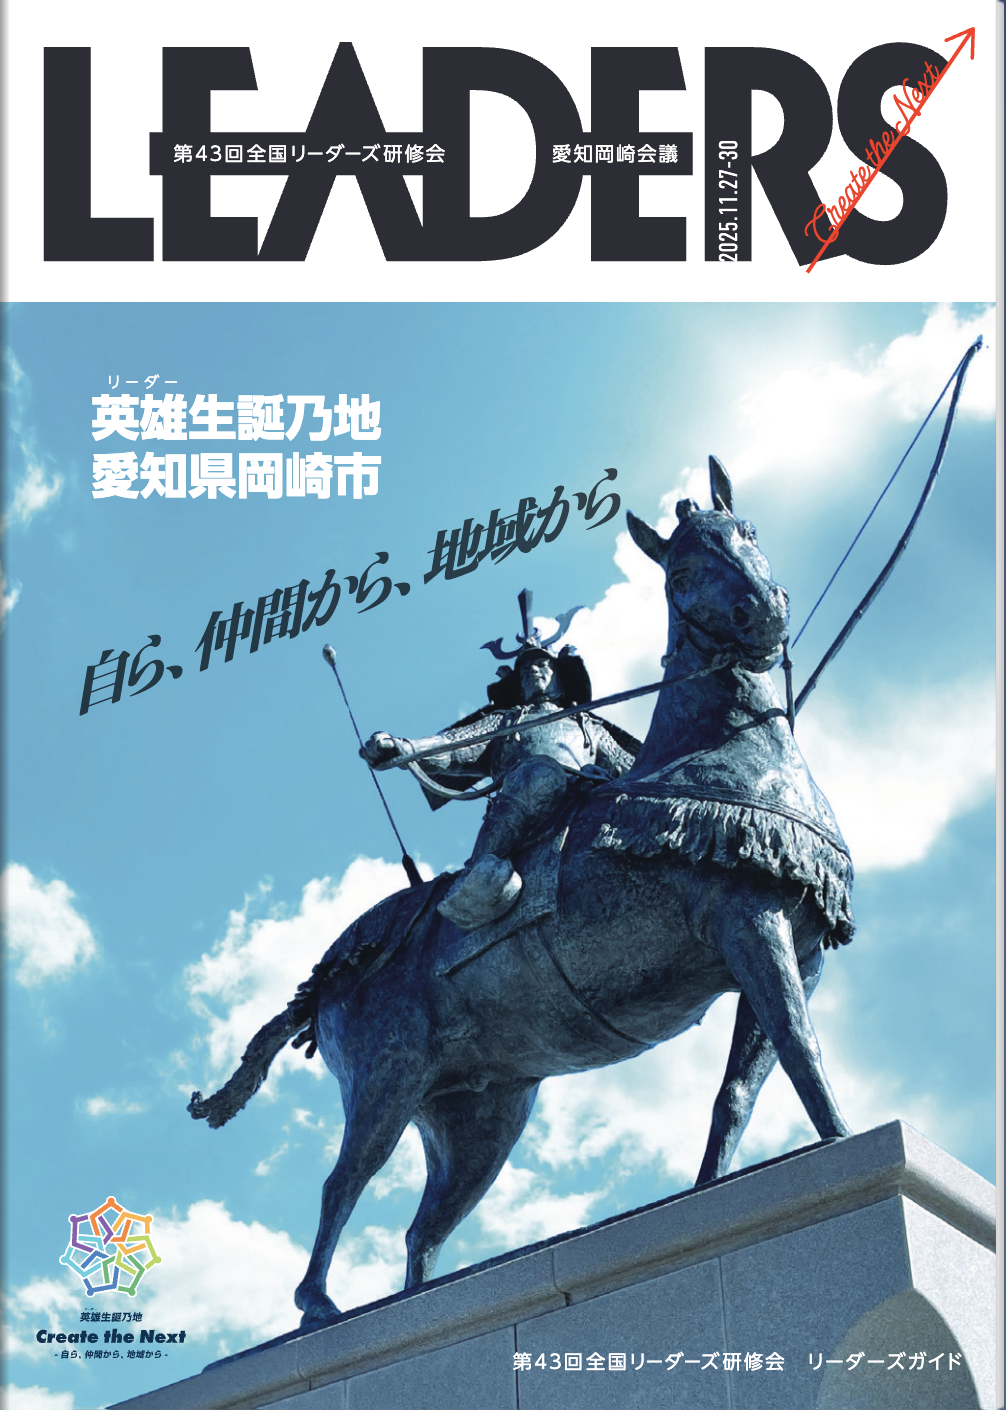
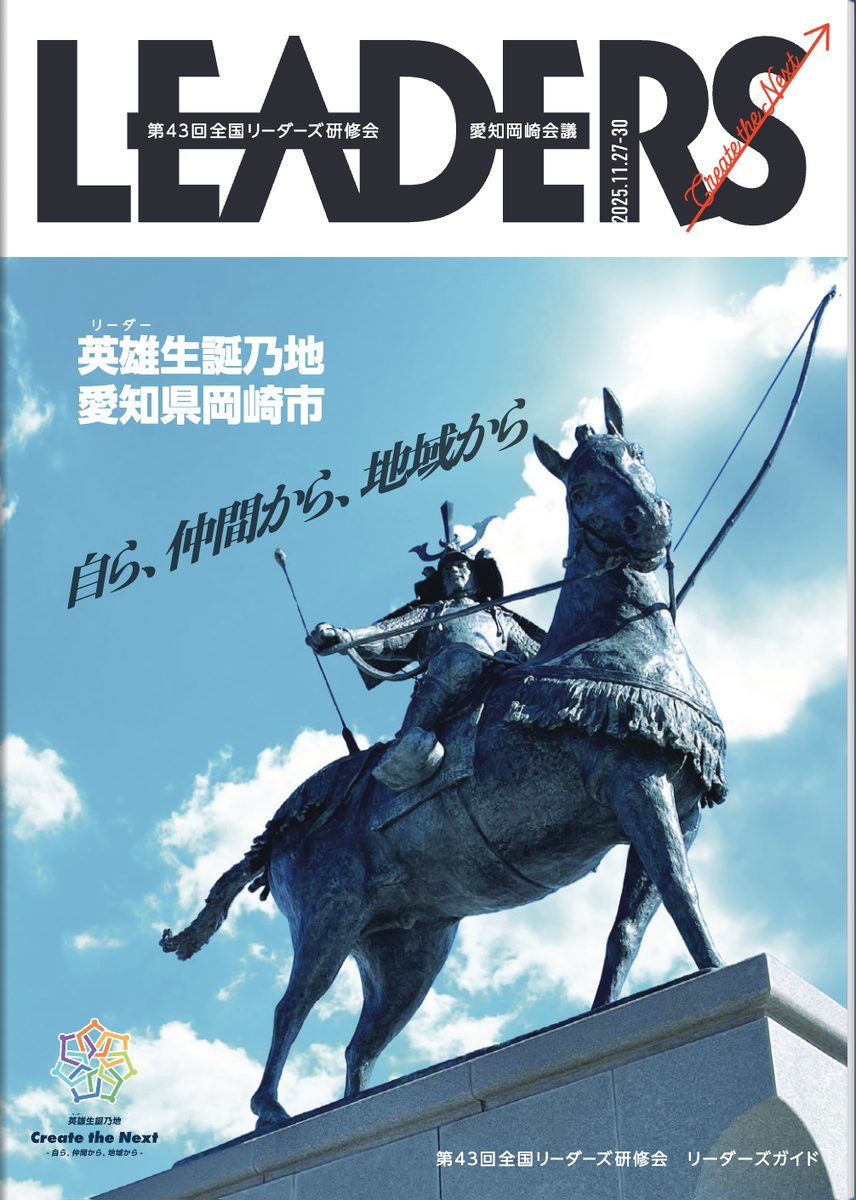
PC/スマホ対応CaseStudyカード・写真圧縮・レスポンシブ実装

diff --git a/pages/services/communication.html b/pages/services/communication.html
@@ -11,6 +11,33 @@
   <link rel="shortcut icon" href="../../images/favicon.ico">
   <link rel="apple-touch-icon" href="../../images/favicon.png">
   <link rel="stylesheet" href="../../css/style.css">
+  <style>
+    .cs-card { border:1px solid var(--border);border-radius:8px;overflow:hidden;margin-bottom:0.75rem }
+    .cs-head { background:var(--navy);color:#fff;padding:0.4rem 1rem;display:flex;justify-content:space-between;align-items:center }
+    .cs-head__title { font-size:13px;letter-spacing:0.07em;font-weight:500 }
+    .cs-head__sub { font-size:10px;opacity:0.6 }
+    .cs-body { padding:1rem 1.1rem;display:flex;gap:1.25rem;align-items:flex-start }
+    .cs-left { flex:1;min-width:0;display:flex;flex-direction:column;gap:0.5rem }
+    .cs-quote { font-size:15px;line-height:1.8;font-weight:600;color:var(--navy-dark, #1a2b4a);border-left:3px solid var(--navy);padding-left:0.75rem;margin:0 }
+    .cs-meta { font-size:11px;color:var(--text-secondary);line-height:1.7 }
+    .cs-badge { background:#e8ecf4;color:var(--navy);padding:1px 7px;border-radius:3px;font-size:10px }
+    .cs-desc { font-size:12px;line-height:1.9;color:var(--text-secondary);border-top:1px solid var(--border);padding-top:0.5rem;margin:0 }
+    .cs-desc--short { display:none }
+    .cs-photos { display:flex;flex-direction:column;gap:0.5rem;flex-shrink:0 }
+    .cs-photo { text-align:center }
+    .cs-photo img { width:110px;height:156px;object-fit:cover;border-radius:4px;border:1px solid var(--border);display:block }
+    .cs-photo span { font-size:9px;color:var(--text-secondary);display:block;margin-top:3px;line-height:1.4 }
+    @media (max-width:640px) {
+      .cs-head__title { font-size:11px }
+      .cs-head__sub { display:none }
+      .cs-body { flex-direction:column;gap:0.75rem }
+      .cs-quote { font-size:16px }
+      .cs-desc--full { display:none }
+      .cs-desc--short { display:block }
+      .cs-photos { flex-direction:column;align-items:flex-start }
+      .cs-photo img { width:100%;height:auto;aspect-ratio:3/4;max-width:180px }
+    }
+  </style>
   <!-- Google tag (gtag.js) -->
   <script async src="https://www.googletagmanager.com/gtag/js?id=G-L12PKW9MNB"></script>
   <script>
@@ -91,59 +118,61 @@
     </div>
 
     <!-- Case Study Cards -->
-    <div style="display:flex;flex-direction:column;gap:0.75rem;margin-bottom:5rem">
+    <div style="margin-bottom:5rem">
 
       <!-- Story 01 -->
-      <div class="reveal" style="border:1px solid var(--border);border-radius:8px;overflow:hidden">
-        <div style="background:var(--navy);color:#fff;padding:0.35rem 0.9rem;font-size:10px;letter-spacing:0.08em;display:flex;justify-content:space-between;align-items:center">
-          <span>Communication Design Story 01</span>
-          <span style="opacity:0.6;font-size:9px">岡崎商工会議所青年部 全国リーダーズ研修会</span>
+      <div class="cs-card reveal">
+        <div class="cs-head">
+          <span class="cs-head__title">Communication Design Story 01</span>
+          <span class="cs-head__sub">岡崎商工会議所青年部 全国リーダーズ研修会</span>
         </div>
-        <div style="padding:0.75rem 0.9rem;display:flex;gap:1rem;align-items:flex-start">
-          <div style="flex:1;min-width:0;display:flex;flex-direction:column;gap:0.45rem">
-            <p style="font-size:13px;line-height:1.75;font-weight:600;color:var(--navy-dark);border-left:2px solid var(--navy);padding-left:0.6rem;margin:0">「企画立案から携わってくれ、助かりました。納品物も非常に評判が良かったです！」</p>
-            <div style="font-size:11px;color:var(--text-secondary);line-height:1.65">
-              <span style="color:var(--text-tertiary, #999)">納品物&emsp;</span>大会記念誌（214p）・大会公式ガイド（100p）<br>
-              <span style="background:#e8ecf4;color:var(--navy);padding:1px 6px;border-radius:3px;font-size:10px">2025.11.27-30 愛知岡崎会議</span>
+        <div class="cs-body">
+          <div class="cs-left">
+            <p class="cs-quote">「企画立案から携わってくれ、助かりました。納品物も非常に評判が良かったです！」</p>
+            <div class="cs-meta">
+              <span style="color:#999">納品物&emsp;</span>大会記念誌（214p）・大会公式ガイド（100p）<br>
+              <span class="cs-badge">2025.11.27-30 愛知岡崎会議</span>
             </div>
-            <p style="font-size:11.5px;line-height:1.85;color:var(--text-secondary);border-top:1px solid var(--border);padding-top:0.5rem;margin:0">2025年11月に愛知県岡崎市で開催されました全国リーダーズ研修会の大会記念誌と大会公式ガイドを作成いたしました。およそ半年をかけて１から内容を作成し、30稿までお付き合いをさせていただきました。弊社ではお客様の頭の中のイメージを聞き取るところから携わらせていただき、最後までワンストップで携わらせていただきます。</p>
+            <p class="cs-desc cs-desc--full">2025年11月に愛知県岡崎市で開催されました全国リーダーズ研修会の大会記念誌と大会公式ガイドを作成いたしました。およそ半年をかけて１から内容を作成し、30稿までお付き合いをさせていただきました。弊社ではお客様の頭の中のイメージを聞き取るところから携わらせていただき、最後までワンストップで携わらせていただきます。</p>
+            <p class="cs-desc cs-desc--short">大会記念誌と公式ガイドを企画立案から伴走。半年・30稿を経てワンストップで完成しました。</p>
           </div>
-          <div style="display:flex;gap:0.4rem;flex-shrink:0">
-            <div style="text-align:center">
-              <img src="../../images/case_leaders_kinenshi.jpg" alt="大会記念誌表紙" style="width:72px;height:102px;object-fit:cover;border-radius:3px;border:1px solid var(--border);display:block">
-              <span style="font-size:9px;color:var(--text-secondary);line-height:1.4;display:block;margin-top:3px">記念誌<br>214p</span>
+          <div class="cs-photos">
+            <div class="cs-photo">
+              <img src="../../images/case_leaders_kinenshi.jpg" alt="大会記念誌表紙">
+              <span>記念誌 214p</span>
             </div>
-            <div style="text-align:center">
-              <img src="../../images/case_leaders_kinenshi.jpg" alt="大会公式ガイド表紙" style="width:72px;height:102px;object-fit:cover;border-radius:3px;border:1px solid var(--border);display:block">
-              <span style="font-size:9px;color:var(--text-secondary);line-height:1.4;display:block;margin-top:3px">ガイド<br>100p</span>
+            <div class="cs-photo">
+              <img src="../../images/case_leaders_guide.jpg" alt="大会公式ガイド表紙">
+              <span>ガイド 100p</span>
             </div>
           </div>
         </div>
       </div>
 
       <!-- Story 02 -->
-      <div class="reveal" style="border:1px solid var(--border);border-radius:8px;overflow:hidden">
-        <div style="background:var(--navy);color:#fff;padding:0.35rem 0.9rem;font-size:10px;letter-spacing:0.08em;display:flex;justify-content:space-between;align-items:center">
-          <span>Communication Design Story 02</span>
-          <span style="opacity:0.6;font-size:9px">岡崎市民俳句会 七十周年記念俳句集</span>
+      <div class="cs-card reveal">
+        <div class="cs-head">
+          <span class="cs-head__title">Communication Design Story 02</span>
+          <span class="cs-head__sub">岡崎市民俳句会 七十周年記念俳句集</span>
         </div>
-        <div style="padding:0.75rem 0.9rem;display:flex;gap:1rem;align-items:flex-start">
-          <div style="flex:1;min-width:0;display:flex;flex-direction:column;gap:0.45rem">
-            <p style="font-size:13px;line-height:1.75;font-weight:600;color:var(--navy-dark);border-left:2px solid var(--navy);padding-left:0.6rem;margin:0">「最初に手にした時の記念俳句集は、手に馴染む重さといい匂いといい、約2年間の編集の苦労が報われる出来栄えでした。」</p>
-            <div style="font-size:11px;color:var(--text-secondary);line-height:1.65">
-              <span style="color:var(--text-tertiary, #999)">納品物&emsp;</span>七十周年記念俳句集 A5判284p 上製本 金箔押し<br>
-              <span style="background:#e8ecf4;color:var(--navy);padding:1px 6px;border-radius:3px;font-size:10px">岡崎市民俳句会</span>
+        <div class="cs-body">
+          <div class="cs-left">
+            <p class="cs-quote">「最初に手にした時の記念俳句集は、手に馴染む重さといい匂いといい、約2年間の編集の苦労が報われる出来栄えでした。」</p>
+            <div class="cs-meta">
+              <span style="color:#999">納品物&emsp;</span>七十周年記念俳句集 A5判284p 上製本 金箔押し<br>
+              <span class="cs-badge">岡崎市民俳句会</span>
             </div>
-            <p style="font-size:11.5px;line-height:1.85;color:var(--text-secondary);border-top:1px solid var(--border);padding-top:0.5rem;margin:0">岡崎市及びその周辺にお住いの俳句を愛好する方々230名が、12句ずつ投句して完成した記念誌です。俳句の一句一句には日々の生活の中で感じられた喜びや悲しみ、自然の美しさや移ろいなどが凝縮されています。短い言葉の中に込められた深い情景や情感は、読者の心に静かに響き、共感や新しい発見をもたらしてくれるものです。この記念句集の発刊を通して、俳句の魅力がより多くの人々に伝わっていくことを願っています。</p>
+            <p class="cs-desc cs-desc--full">岡崎市及びその周辺にお住いの俳句を愛好する方々230名が、12句ずつ投句して完成した記念誌です。俳句の一句一句には日々の生活の中で感じられた喜びや悲しみ、自然の美しさや移ろいなどが凝縮されています。短い言葉の中に込められた深い情景や情感は、読者の心に静かに響き、共感や新しい発見をもたらしてくれるものです。この記念句集の発刊を通して、俳句の魅力がより多くの人々に伝わっていくことを願っています。</p>
+            <p class="cs-desc cs-desc--short">俳句愛好家230名が12句ずつ投句した記念誌。約2年の編集に伴走し、金箔押し上製本として完成しました。</p>
           </div>
-          <div style="display:flex;gap:0.4rem;flex-shrink:0">
-            <div style="text-align:center">
-              <img src="../../images/case_haiku_cover.jpeg" alt="七十周年記念俳句集表紙" style="width:72px;height:102px;object-fit:cover;border-radius:3px;border:1px solid var(--border);display:block">
-              <span style="font-size:9px;color:var(--text-secondary);line-height:1.4;display:block;margin-top:3px">表紙</span>
+          <div class="cs-photos">
+            <div class="cs-photo">
+              <img src="../../images/case_haiku_cover.jpeg" alt="七十周年記念俳句集表紙">
+              <span>表紙</span>
             </div>
-            <div style="text-align:center">
-              <img src="../../images/case_haiku_inside.jpeg" alt="七十周年記念俳句集見開き" style="width:72px;height:102px;object-fit:cover;border-radius:3px;border:1px solid var(--border);display:block">
-              <span style="font-size:9px;color:var(--text-secondary);line-height:1.4;display:block;margin-top:3px">見開き</span>
+            <div class="cs-photo">
+              <img src="../../images/case_haiku_inside.jpeg" alt="七十周年記念俳句集見開き">
+              <span>見開き</span>
             </div>
           </div>
         </div>
